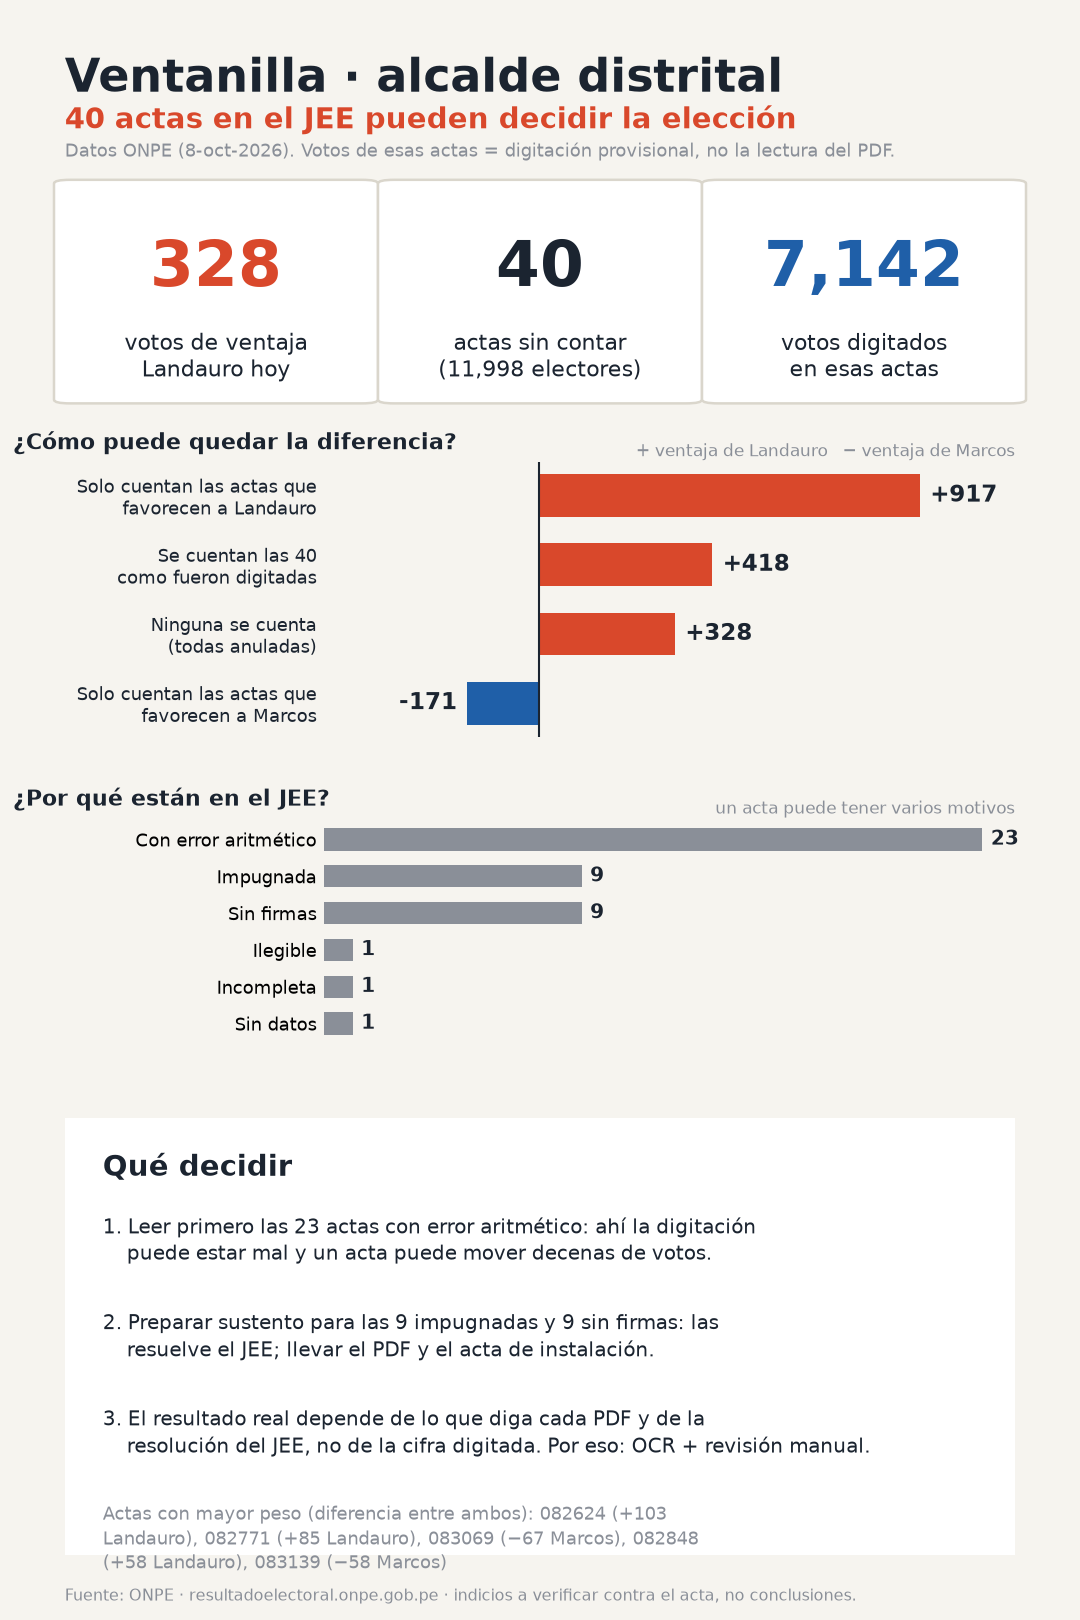
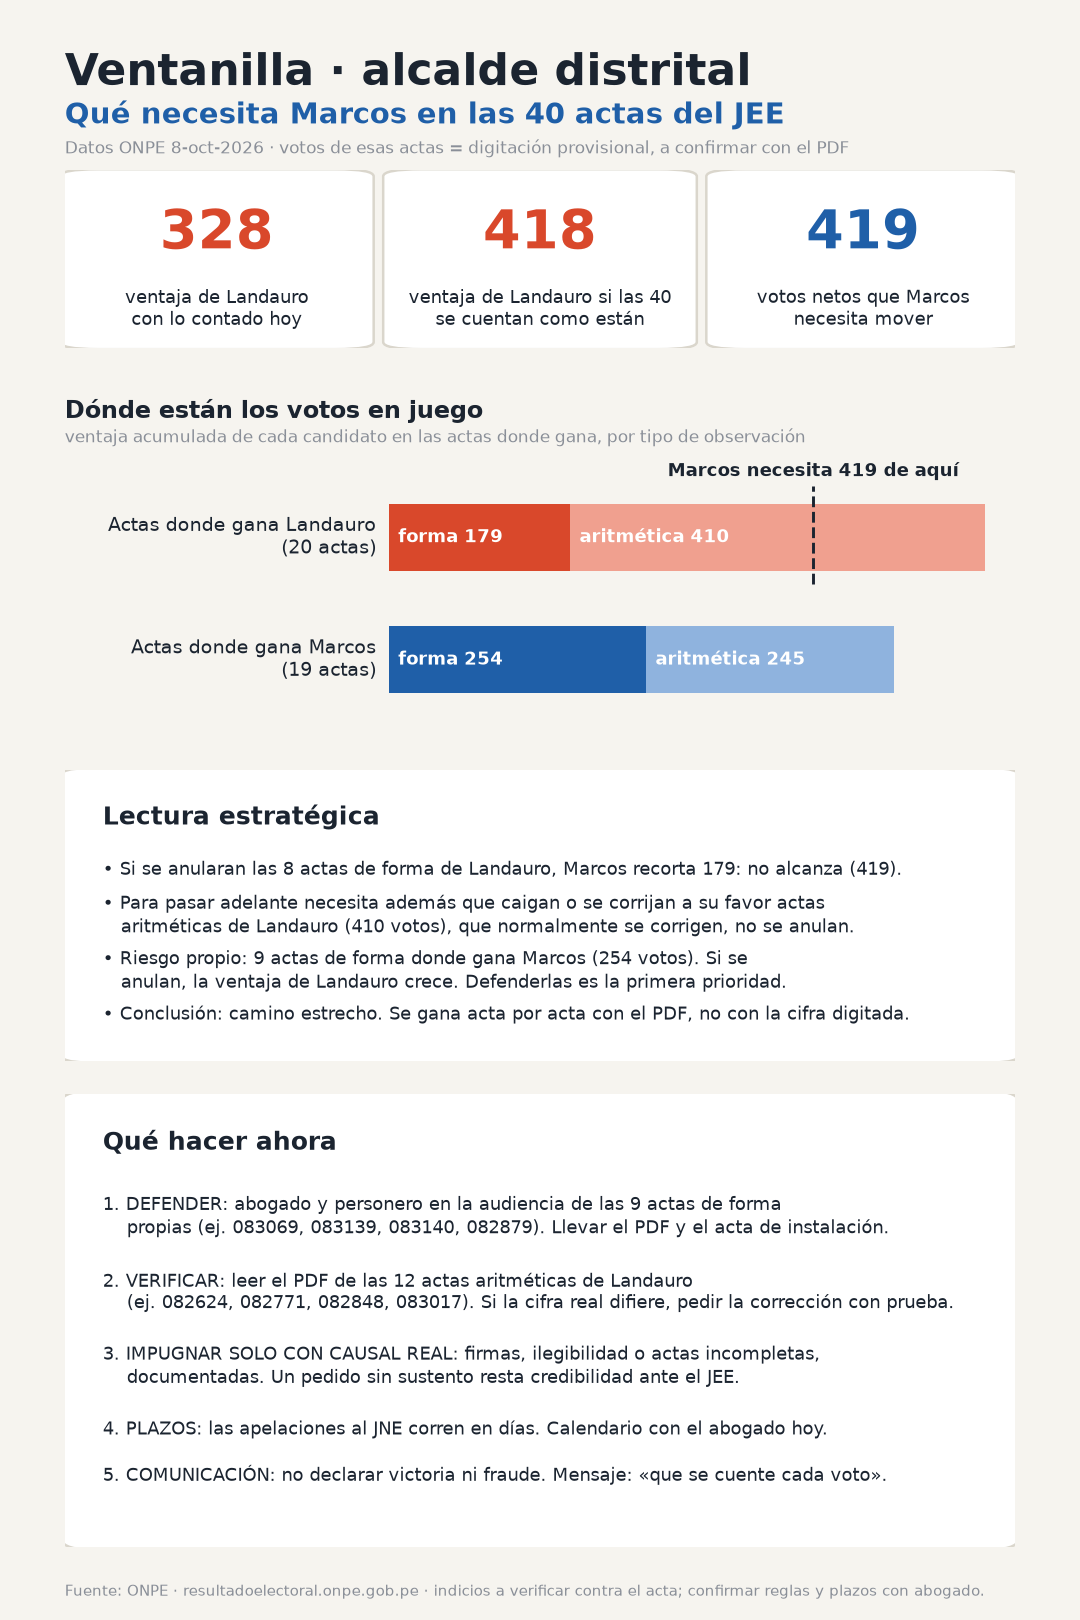
Infografía estratégica: votos en juego por tipo de observación y qué hacer

diff --git a/src/infografia_jee.py b/src/infografia_jee.py
@@ -1,10 +1,9 @@
-"""Infografía de las actas JEE de un distrito: qué tan reñida está la elección y qué puede cambiar.
+"""Infografía estratégica de las actas JEE de un distrito: cuánto necesita mover el 2.º lugar y dónde está cada voto.
 
 Lee los datos locales (mesas.jsonl y totales_*.json). Uso: uv run --group viz python src/infografia_jee.py
 Salida: reports/infografia_ventanilla_jee.png (1080 x 1620).
 """
 import json
-from collections import Counter
 from pathlib import Path
 
 import matplotlib
@@ -17,112 +16,120 @@ import analisis  # noqa: E402
 
 ROOT = Path(__file__).parent.parent
 UBIGEO, ELECCION = 240106, 4
-ORG_A, ORG_B = "RENOVACIÓN POPULAR PERÚ", "PARTIDO DEMOCRÁTICO SOMOS PERÚ"
-AZUL, ROJO, GRIS, TINTA, FONDO = "#1F5FA8", "#D9482B", "#8A8F98", "#1B2430", "#F6F4EF"
+ORG_A, ORG_B = "RENOVACIÓN POPULAR PERÚ", "PARTIDO DEMOCRÁTICO SOMOS PERÚ"  # A = 2.º lugar, B = 1.º lugar
+AZUL, ROJO, ROJO_CLARO, AZUL_CLARO = "#1F5FA8", "#D9482B", "#F0A08F", "#8FB3DE"
+GRIS, TINTA, FONDO, BORDE = "#8A8F98", "#1B2430", "#F6F4EF", "#DAD6CC"
+FORMA = ("firm", "impugn", "ilegib", "incomplet", "sin datos")
 
 
-def candidato(oficial: dict, org: str) -> str:
+def es_forma(motivo: str) -> bool:
+    """Observación de forma (firmas, impugnación, ilegible, incompleta): la que puede terminar en anulación."""
+    return any(k in motivo.lower() for k in FORMA)
+
+
+def apellido(oficial: dict, org: str) -> str:
     for o in oficial["participantes"]["data"]:
-        if o["nombreAgrupacionPolitica"] == org:
-            return o["nombreCandidato"].title()
-    return org
+        if o["nombreAgrupacionPolitica"] == org and o["nombreCandidato"]:
+            return o["nombreCandidato"].split()[-2].title()
+    return org.title()
 
 
-def tarjeta(ax, x, y, w, h, valor, texto, color):
-    ax.add_patch(FancyBboxPatch((x, y), w, h, boxstyle="round,pad=0.01,rounding_size=0.015", fc="white", ec="#DAD6CC", lw=1.2,
+def caja(fig, x, y, w, h):
+    ax = fig.add_axes([x, y, w, h]); ax.axis("off")
+    ax.add_patch(FancyBboxPatch((0, 0), 1, 1, boxstyle="round,pad=0.005,rounding_size=0.03", fc="white", ec=BORDE, lw=1.2,
                                 transform=ax.transAxes))
-    ax.text(x + w / 2, y + h * 0.60, valor, ha="center", va="center", fontsize=30, fontweight="bold", color=color, transform=ax.transAxes)
-    ax.text(x + w / 2, y + h * 0.20, texto, ha="center", va="center", fontsize=10.5, color=TINTA, transform=ax.transAxes)
+    return ax
+
+
+def barra_apilada(ax, y, partes, total_ref, etiqueta):
+    x = 0
+    for valor, color, texto in partes:
+        ax.barh(y, valor, left=x, color=color, height=0.55)
+        if valor >= total_ref * 0.08:
+            ax.text(x + total_ref * 0.015, y, texto, ha="left", va="center", fontsize=8.5, color="white", fontweight="bold")
+        x += valor
+    ax.text(-total_ref * 0.02, y, etiqueta, ha="right", va="center", fontsize=9, color=TINTA)
 
 
 def main() -> Path:
     oficial = json.loads((ROOT / "data" / "raw" / f"totales_{UBIGEO}_{ELECCION}.json").read_text())
     tot = {o["nombreAgrupacionPolitica"]: o["totalVotosValidos"] for o in oficial["participantes"]["data"]}
-    a_ofi, b_ofi = tot[ORG_A], tot[ORG_B]
-    nombre_a, nombre_b = candidato(oficial, ORG_A), candidato(oficial, ORG_B)
-    corto_a, corto_b = nombre_a.split()[-2], nombre_b.split()[-2]  # apellido paterno
+    a, b = apellido(oficial, ORG_A), apellido(oficial, ORG_B)
+    margen_hoy = tot[ORG_B] - tot[ORG_A]
 
     jee = analisis.jee_distrital(UBIGEO, ELECCION, ORG_A, ORG_B)
-    d = jee["votos_b"] - jee["votos_a"]  # >0: favorece a B
-    gana_b, gana_a = int(d[d > 0].sum()), int(-d[d < 0].sum())
-    margen = b_ofi - a_ofi  # ventaja oficial de B hoy
-    escenarios = [
-        (f"Solo cuentan las actas que\nfavorecen a {corto_b}", margen + gana_b),
-        ("Se cuentan las 40\ncomo fueron digitadas", margen + gana_b - gana_a),
-        ("Ninguna se cuenta\n(todas anuladas)", margen),
-        (f"Solo cuentan las actas que\nfavorecen a {corto_a}", margen - gana_a),
-    ]
-    motivos = Counter(m for fila in jee["motivo_jee"] for m in {x.strip() for x in fila.split(",")} if m)
+    jee = jee.assign(d=jee["votos_b"] - jee["votos_a"], forma=jee["motivo_jee"].map(es_forma))
+    margen_todo = margen_hoy + int(jee["d"].sum())
+    necesita = margen_todo + 1
+    b_forma = jee[(jee.d > 0) & jee.forma]; b_arit = jee[(jee.d > 0) & ~jee.forma]
+    a_forma = jee[(jee.d < 0) & jee.forma]; a_arit = jee[(jee.d < 0) & ~jee.forma]
+    v = {k: int(abs(x["d"].sum())) for k, x in {"bf": b_forma, "ba": b_arit, "af": a_forma, "aa": a_arit}.items()}
 
     fig = plt.figure(figsize=(7.2, 10.8), dpi=150, facecolor=FONDO)
-    fig.text(0.06, 0.965, "Ventanilla · alcalde distrital", fontsize=22, fontweight="bold", color=TINTA, va="top")
-    fig.text(0.06, 0.935, f"{len(jee)} actas en el JEE pueden decidir la elección", fontsize=14, color=ROJO, va="top", fontweight="bold")
-    fig.text(0.06, 0.912, "Datos ONPE (8-oct-2026). Votos de esas actas = digitación provisional, no la lectura del PDF.",
-             fontsize=8.5, color=GRIS, va="top")
+    fig.text(0.06, 0.968, "Ventanilla · alcalde distrital", fontsize=21, fontweight="bold", color=TINTA, va="top")
+    fig.text(0.06, 0.938, f"Qué necesita {a} en las {len(jee)} actas del JEE", fontsize=14, color=AZUL, va="top", fontweight="bold")
+    fig.text(0.06, 0.914, "Datos ONPE 8-oct-2026 · votos de esas actas = digitación provisional, a confirmar con el PDF",
+             fontsize=8.3, color=GRIS, va="top")
 
-    ax = fig.add_axes([0, 0.745, 1, 0.15]); ax.axis("off")
-    tarjeta(ax, 0.06, 0.05, 0.28, 0.9, f"{margen:,}", f"votos de ventaja\n{corto_b} hoy", ROJO)
-    tarjeta(ax, 0.36, 0.05, 0.28, 0.9, f"{len(jee)}", f"actas sin contar\n({int(jee['habiles'].sum()):,} electores)", TINTA)
-    tarjeta(ax, 0.66, 0.05, 0.28, 0.9, f"{int(jee['votos_organizaciones'].sum()):,}", "votos digitados\nen esas actas", AZUL)
+    kp = fig.add_axes([0.06, 0.785, 0.88, 0.11]); kp.axis("off")
+    for i, (val, txt, col) in enumerate([
+        (f"{margen_hoy:,}", f"ventaja de {b}\ncon lo contado hoy", ROJO),
+        (f"{margen_todo:,}", f"ventaja de {b} si las {len(jee)}\nse cuentan como están", ROJO),
+        (f"{necesita:,}", f"votos netos que {a}\nnecesita mover", AZUL),
+    ]):
+        x = i * 0.34
+        kp.add_patch(FancyBboxPatch((x, 0), 0.32, 1, boxstyle="round,pad=0.005,rounding_size=0.04", fc="white", ec=BORDE, lw=1.2,
+                                    transform=kp.transAxes))
+        kp.text(x + 0.16, 0.64, val, ha="center", va="center", fontsize=26, fontweight="bold", color=col, transform=kp.transAxes)
+        kp.text(x + 0.16, 0.22, txt, ha="center", va="center", fontsize=8.6, color=TINTA, transform=kp.transAxes)
 
-    ax1 = fig.add_axes([0.30, 0.545, 0.64, 0.17], facecolor=FONDO)
-    ax1.set_title("¿Cómo puede quedar la diferencia?",
-                  fontsize=10.5, color=TINTA, loc="left", x=-0.45, fontweight="bold")
-    y = range(len(escenarios))[::-1]
-    for yi, (nom, val) in zip(y, escenarios, strict=True):
-        ax1.barh(yi, val, color=ROJO if val > 0 else AZUL, height=0.62)
-        ax1.text(val + (25 if val > 0 else -25), yi, f"{val:+,}", va="center", ha="left" if val > 0 else "right",
-                 fontsize=11, fontweight="bold", color=TINTA)
-    ax1.set_yticks(list(y)); ax1.set_yticklabels([n for n, _ in escenarios], fontsize=8.5, color=TINTA)
-    ax1.axvline(0, color=TINTA, lw=1)
-    ax1.text(1.0, 1.02, f"+ ventaja de {corto_b}   − ventaja de {corto_a}", transform=ax1.transAxes, ha="right", fontsize=8, color=GRIS)
-    lim = max(abs(v) for _, v in escenarios) * 1.25
-    ax1.set_xlim(-lim * 0.45, lim); ax1.set_xticks([])
-    for s in ax1.spines.values():
-        s.set_visible(False)
-    ax1.tick_params(length=0)
+    ref = max(v["bf"] + v["ba"], v["af"] + v["aa"], necesita) * 1.05
+    ax = fig.add_axes([0.36, 0.555, 0.58, 0.17], facecolor=FONDO)
+    fig.text(0.06, 0.742, f"Dónde están los votos en juego", fontsize=11.5, fontweight="bold", color=TINTA)
+    fig.text(0.06, 0.727, "ventaja acumulada de cada candidato en las actas donde gana, por tipo de observación",
+             fontsize=8, color=GRIS)
+    barra_apilada(ax, 1, [(v["bf"], ROJO, f"forma {v['bf']}"), (v["ba"], ROJO_CLARO, f"aritmética {v['ba']}")], ref,
+                  f"Actas donde gana {b}\n({len(b_forma) + len(b_arit)} actas)")
+    barra_apilada(ax, 0, [(v["af"], AZUL, f"forma {v['af']}"), (v["aa"], AZUL_CLARO, f"aritmética {v['aa']}")], ref,
+                  f"Actas donde gana {a}\n({len(a_forma) + len(a_arit)} actas)")
+    ax.plot([necesita, necesita], [0.62, 1.42], color=TINTA, lw=1.4, ls="--")
+    ax.text(necesita, 1.5, f"{a} necesita {necesita} de aquí", ha="center", fontsize=8.5, color=TINTA, fontweight="bold")
+    ax.set_xlim(0, ref); ax.set_ylim(-0.5, 1.75); ax.axis("off")
 
-    ax2 = fig.add_axes([0.30, 0.355, 0.64, 0.14], facecolor=FONDO)
-    ax2.set_title("¿Por qué están en el JEE?", fontsize=10.5, color=TINTA, loc="left",
-                  x=-0.45, fontweight="bold")
-    ax2.text(1.0, 1.02, "un acta puede tener varios motivos", transform=ax2.transAxes, ha="right", fontsize=8, color=GRIS)
-    items = motivos.most_common()[::-1]
-    ax2.barh([i[0].replace("Acta ", "").capitalize() for i in items], [i[1] for i in items], color=GRIS, height=0.6)
-    for i, (_, n) in enumerate(items):
-        ax2.text(n + 0.3, i, str(n), va="center", fontsize=9.5, color=TINTA, fontweight="bold")
-    ax2.set_xticks([]); ax2.tick_params(length=0, labelsize=8.5)
-    for s in ax2.spines.values():
-        s.set_visible(False)
-
-    top = jee.assign(d=d, ad=d.abs()).sort_values("ad", ascending=False).head(5)
-    lineas = ["Actas con mayor peso (diferencia entre ambos): " + ", ".join(
-        f"{r.mesa} ({'+' if r.d > 0 else '−'}{int(r.ad)} {corto_b if r.d > 0 else corto_a})" for r in top.itertuples())]
-    ax3 = fig.add_axes([0.06, 0.04, 0.88, 0.27]); ax3.axis("off")
-    ax3.add_patch(FancyBboxPatch((0, 0), 1, 1, boxstyle="round,pad=0.01,rounding_size=0.02", fc="white", ec="#DAD6CC", lw=1.2,
-                                 transform=ax3.transAxes))
-    ax3.text(0.04, 0.92, "Qué decidir", fontsize=14, fontweight="bold", color=TINTA, va="top", transform=ax3.transAxes)
-    pasos = [
-        f"1. Leer primero las {motivos.get('Acta con error aritmético', 0)} actas con error aritmético: ahí la digitación\n    puede estar mal y un acta puede mover decenas de votos.",
-        f"2. Preparar sustento para las {motivos.get('Acta impugnada', 0)} impugnadas y {motivos.get('Acta sin firmas', 0)} sin firmas: las\n    resuelve el JEE; llevar el PDF y el acta de instalación.",
-        "3. El resultado real depende de lo que diga cada PDF y de la\n    resolución del JEE, no de la cifra digitada. Por eso: OCR + revisión manual.",
-        lineas[0],
+    lect = caja(fig, 0.06, 0.345, 0.88, 0.18)
+    lect.text(0.04, 0.88, "Lectura estratégica", fontsize=12, fontweight="bold", color=TINTA, va="top", transform=lect.transAxes)
+    lineas = [
+        f"• Si se anularan las {len(b_forma)} actas de forma de {b}, {a} recorta {v['bf']}: no alcanza ({necesita}).",
+        f"• Para pasar adelante necesita además que caigan o se corrijan a su favor actas\n   aritméticas de {b} ({v['ba']} votos), que normalmente se corrigen, no se anulan.",
+        f"• Riesgo propio: {len(a_forma)} actas de forma donde gana {a} ({v['af']} votos). Si se\n   anulan, la ventaja de {b} crece. Defenderlas es la primera prioridad.",
+        "• Conclusión: camino estrecho. Se gana acta por acta con el PDF, no con la cifra digitada.",
     ]
-    yy = 0.78
-    for p in pasos[:3]:
-        ax3.text(0.04, yy, p, fontsize=9.5, color=TINTA, va="top", transform=ax3.transAxes, linespacing=1.35)
-        yy -= 0.22
-    ax3.text(0.04, yy, "\n".join(_ajustar(pasos[3], 62)), fontsize=8.8, color=GRIS, va="top", transform=ax3.transAxes, linespacing=1.3)
-    fig.text(0.06, 0.012, "Fuente: ONPE · resultadoelectoral.onpe.gob.pe · indicios a verificar contra el acta, no conclusiones.",
-             fontsize=7.5, color=GRIS)
+    y = 0.70
+    for ln in lineas:
+        lect.text(0.04, y, ln, fontsize=8.7, color=TINTA, va="top", transform=lect.transAxes, linespacing=1.3)
+        y -= 0.19 if "\n" in ln else 0.12
+
+    dec = caja(fig, 0.06, 0.045, 0.88, 0.28)
+    dec.text(0.04, 0.92, "Qué hacer ahora", fontsize=12, fontweight="bold", color=TINTA, va="top", transform=dec.transAxes)
+    top_a = ", ".join(a_forma.sort_values("d")["mesa"].head(4))
+    top_b = ", ".join(b_arit.sort_values("d", ascending=False)["mesa"].head(4))
+    pasos = [
+        f"1. DEFENDER: abogado y personero en la audiencia de las {len(a_forma)} actas de forma\n    propias (ej. {top_a}). Llevar el PDF y el acta de instalación.",
+        f"2. VERIFICAR: leer el PDF de las {len(b_arit)} actas aritméticas de {b}\n    (ej. {top_b}). Si la cifra real difiere, pedir la corrección con prueba.",
+        "3. IMPUGNAR SOLO CON CAUSAL REAL: firmas, ilegibilidad o actas incompletas,\n    documentadas. Un pedido sin sustento resta credibilidad ante el JEE.",
+        "4. PLAZOS: las apelaciones al JNE corren en días. Calendario con el abogado hoy.",
+        "5. COMUNICACIÓN: no declarar victoria ni fraude. Mensaje: «que se cuente cada voto».",
+    ]
+    y = 0.78
+    for p in pasos:
+        dec.text(0.04, y, p, fontsize=8.6, color=TINTA, va="top", transform=dec.transAxes, linespacing=1.3)
+        y -= 0.165 if "\n" in p else 0.10
+    fig.text(0.06, 0.015, "Fuente: ONPE · resultadoelectoral.onpe.gob.pe · indicios a verificar contra el acta; confirmar reglas y plazos con abogado.",
+             fontsize=7, color=GRIS)
 
     salida = ROOT / "reports" / "infografia_ventanilla_jee.png"
     fig.savefig(salida, facecolor=FONDO)
     return salida
-
-
-def _ajustar(texto: str, ancho: int) -> list[str]:
-    import textwrap
-    return textwrap.wrap(texto, ancho)
 
 
 if __name__ == "__main__":
